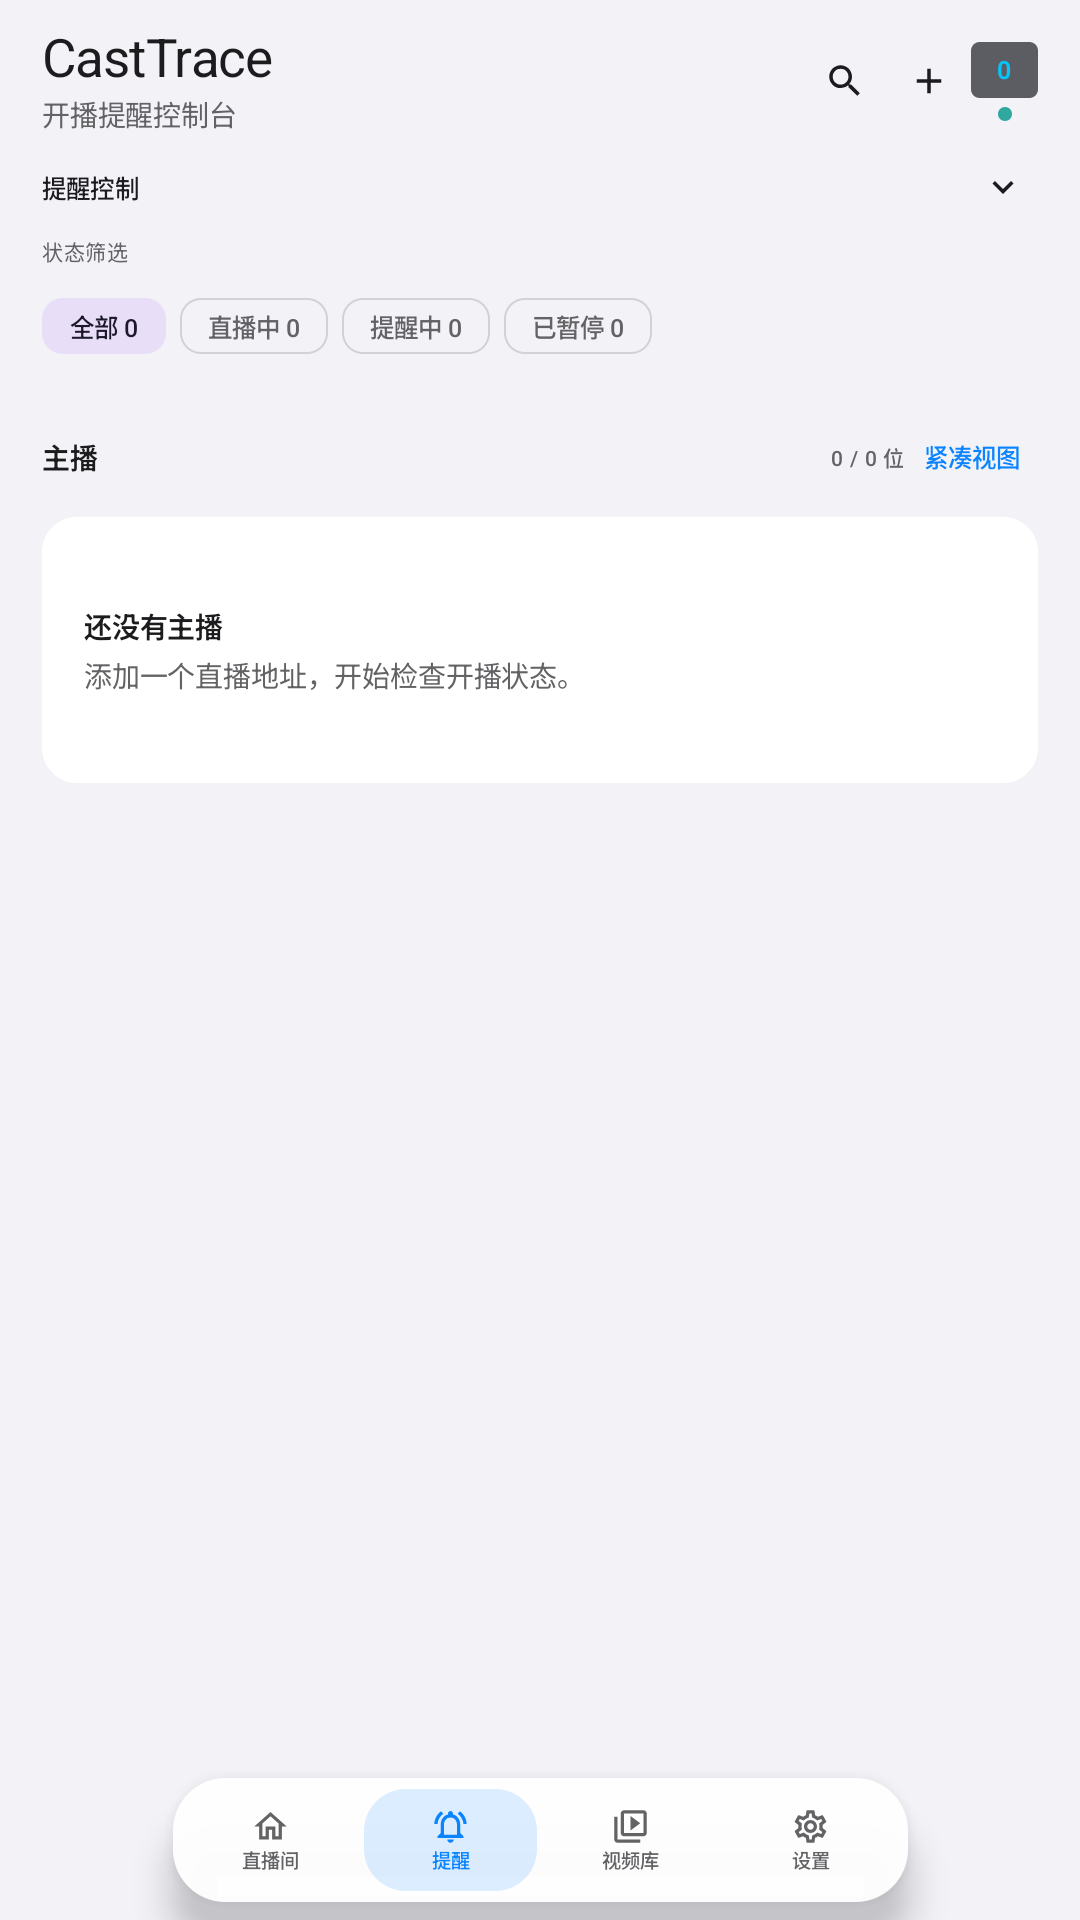
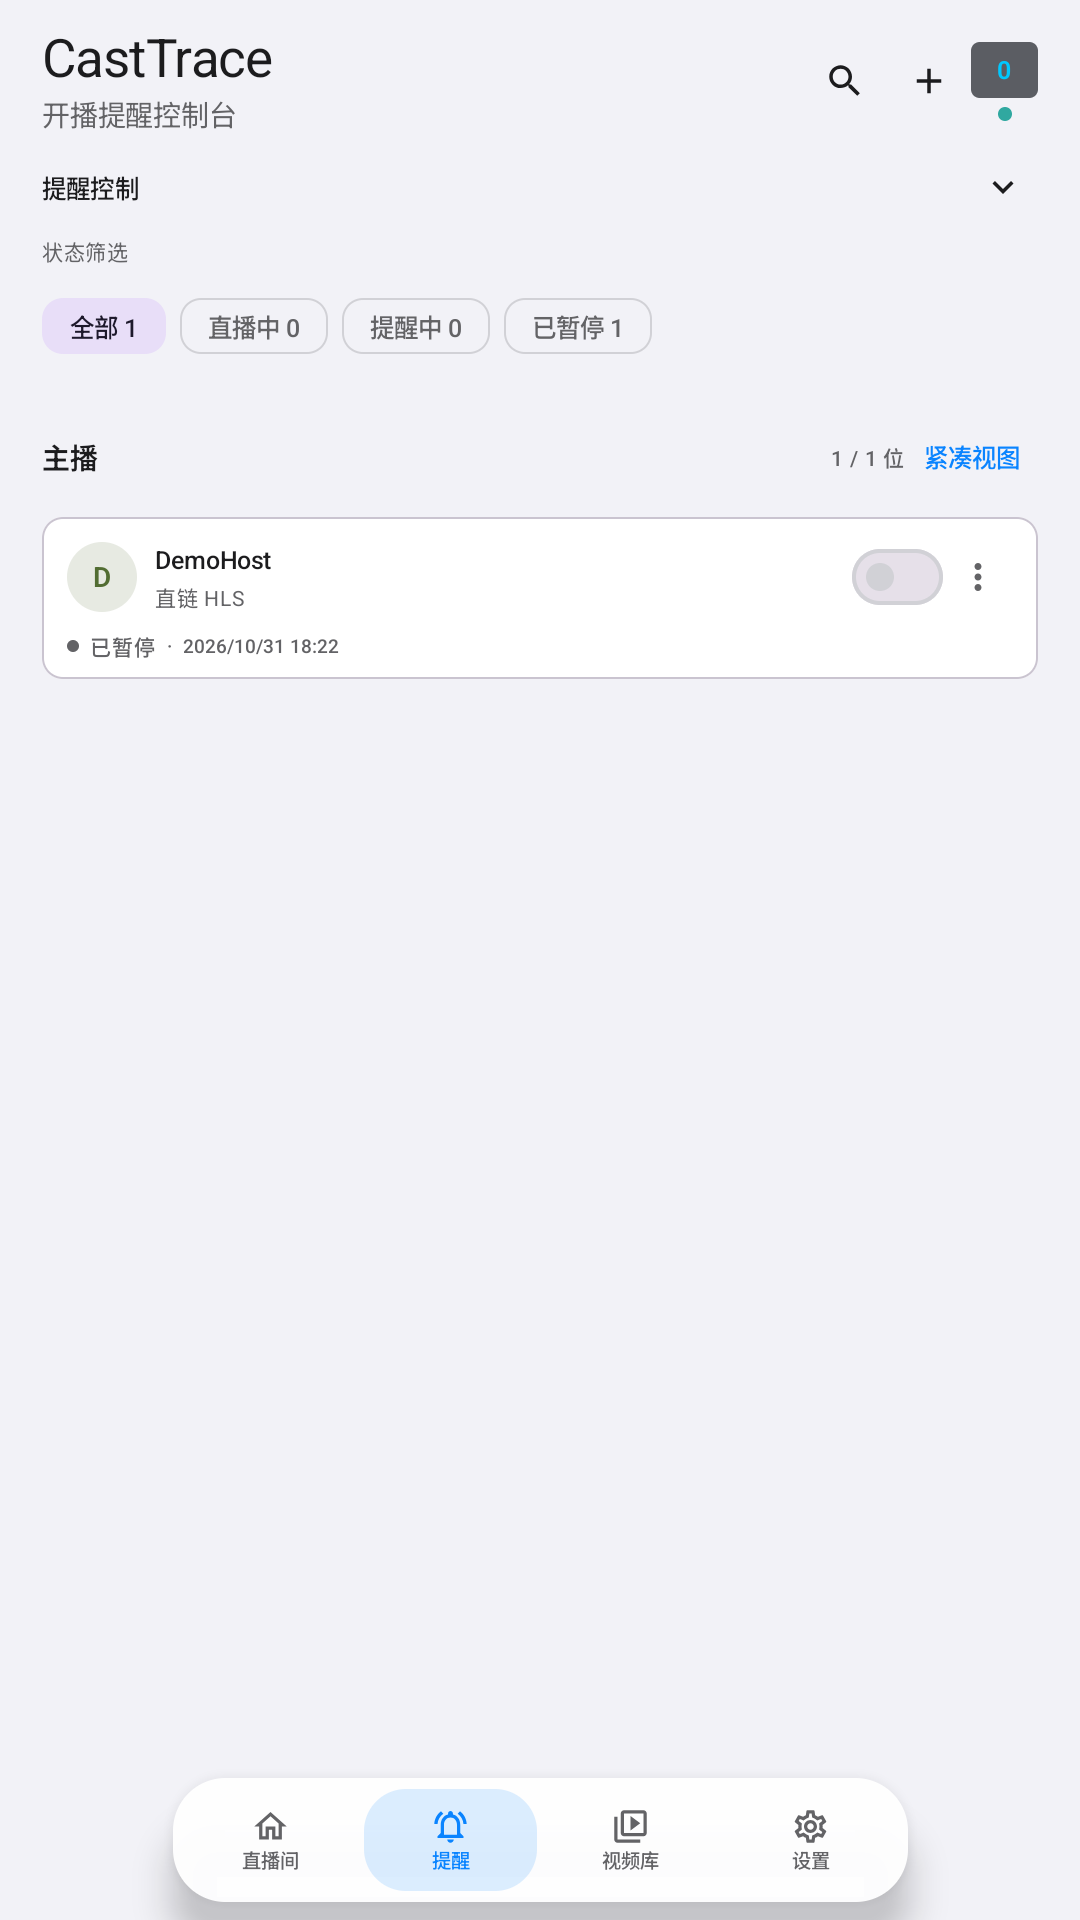
release: prepare CastTrace 0.2.15 and refresh README

Changed region(s): [[0.0611, 0.2812, 0.5194, 0.375], [0.7944, 0.2812, 0.8861, 0.3125]]

diff --git a/README.en.md b/README.en.md
@@ -14,24 +14,17 @@
   <a href="LICENSE"><img alt="Apache 2.0" src="https://img.shields.io/badge/License-Apache--2.0-green"></a>
 </p>
 
-<p align="center"><a href="https://github.com/SRiftX/casttrace-android/releases"><strong>Download the latest APK</strong></a> · <a href="CONTRIBUTING.md">Contribute</a> · <a href="ARCHITECTURE.md">Architecture</a></p>
+<p align="center"><a href="https://github.com/SRiftX/casttrace-android/releases"><strong>Download the latest APK</strong></a> · <a href="CONTRIBUTING.md">Contribute</a> · <a href="ARCHITECTURE.md">Architecture</a> · <a href="https://github.com/SRiftX/casttrace-android/issues">Report an issue</a></p>
 
 ## Screenshots
 
+<p align="center"><strong>Phone layout</strong></p>
 <p align="center">
-  <a href="screenshots/live-rooms-large-screen.png"><img src="screenshots/live-rooms-large-screen.png" height="280" alt="Live room monitoring and recording console"></a>
-  <a href="screenshots/live-reminders.png"><img src="screenshots/live-reminders.png" height="280" alt="Live reminder list"></a>
-  <a href="screenshots/settings.png"><img src="screenshots/settings.png" height="280" alt="Recording, background operation and platform settings"></a>
+  <a href="screenshots/live-rooms.png"><img src="screenshots/live-rooms.png" width="210" alt="Phone live room monitoring and recording console"></a>
+  <a href="screenshots/live-reminders.png"><img src="screenshots/live-reminders.png" width="210" alt="Phone live reminders with a paused example"></a>
+  <a href="screenshots/settings.png"><img src="screenshots/settings.png" width="210" alt="Recording and background operation settings"></a>
 </p>
-<p align="center"><sub>Room monitoring · Live reminders · Recording and background settings. Click an image to view it full size.</sub></p>
-
-<p align="center">
-  <a href="#download">Download APK</a> ·
-  <a href="#features">Features</a> ·
-  <a href="#build-from-source">Build from source</a> ·
-  <a href="#developer-guide">Developer guide</a> ·
-  <a href="#contributing">Contributing</a>
-</p>
+<p align="center"><sub>Room monitoring · Live reminders · Recording settings. Click an image to view it full size.</sub></p>
 
 CastTrace is built with Kotlin, Jetpack Compose, Room, WorkManager, Media3 and FFmpegKit. It also supports live reminders, chat capture and local playback.
 
@@ -110,7 +103,7 @@ The Debug APK is written to `app/build/outputs/apk/debug/app-debug.apk`. The app
 
 ## Developer Guide
 
-Start with [CONTRIBUTING.md](CONTRIBUTING.md). Read [ARCHITECTURE.md](ARCHITECTURE.md) before changing dependency injection, recording lifecycle or data boundaries.
+Start with [CONTRIBUTING.md](CONTRIBUTING.md). Read [ARCHITECTURE.md](ARCHITECTURE.md) before changing dependency injection, recording lifecycle or data boundaries. See [RELEASING.md](RELEASING.md) for versioning and APK publishing.
 
 Production code is under `app/src/main/java/com/streamcap/mobile/`:
 

diff --git a/CHANGELOG.md b/CHANGELOG.md
@@ -2,6 +2,11 @@
 
 此记录描述源码版本，不代表已发布可下载的 APK。设备验证范围见 README。
 
+## 0.2.15 - 2026-10-31
+
+- 修复正式 APK 发布时 FFmpeg 源码构建脚本的行尾兼容问题。
+- 完善中英文 README 的手机截图、项目入口和开发者指引。
+
 ## 0.2.14 - 2026-10-31
 
 - 增加直播提醒和超火、礼物、订阅等直播事件采集能力。

diff --git a/RELEASING.md b/RELEASING.md
@@ -52,8 +52,8 @@ byte-for-byte equivalent to the source build.
 4. Create and push the matching annotated tag, for example:
 
    ```bash
-   git tag -a v0.2.14 -m "CastTrace 0.2.14"
-   git push origin v0.2.14
+   git tag -a v0.2.15 -m "CastTrace 0.2.15"
+   git push origin v0.2.15
    ```
 
 5. Follow the `Publish Android APK` Actions run. The workflow verifies the
